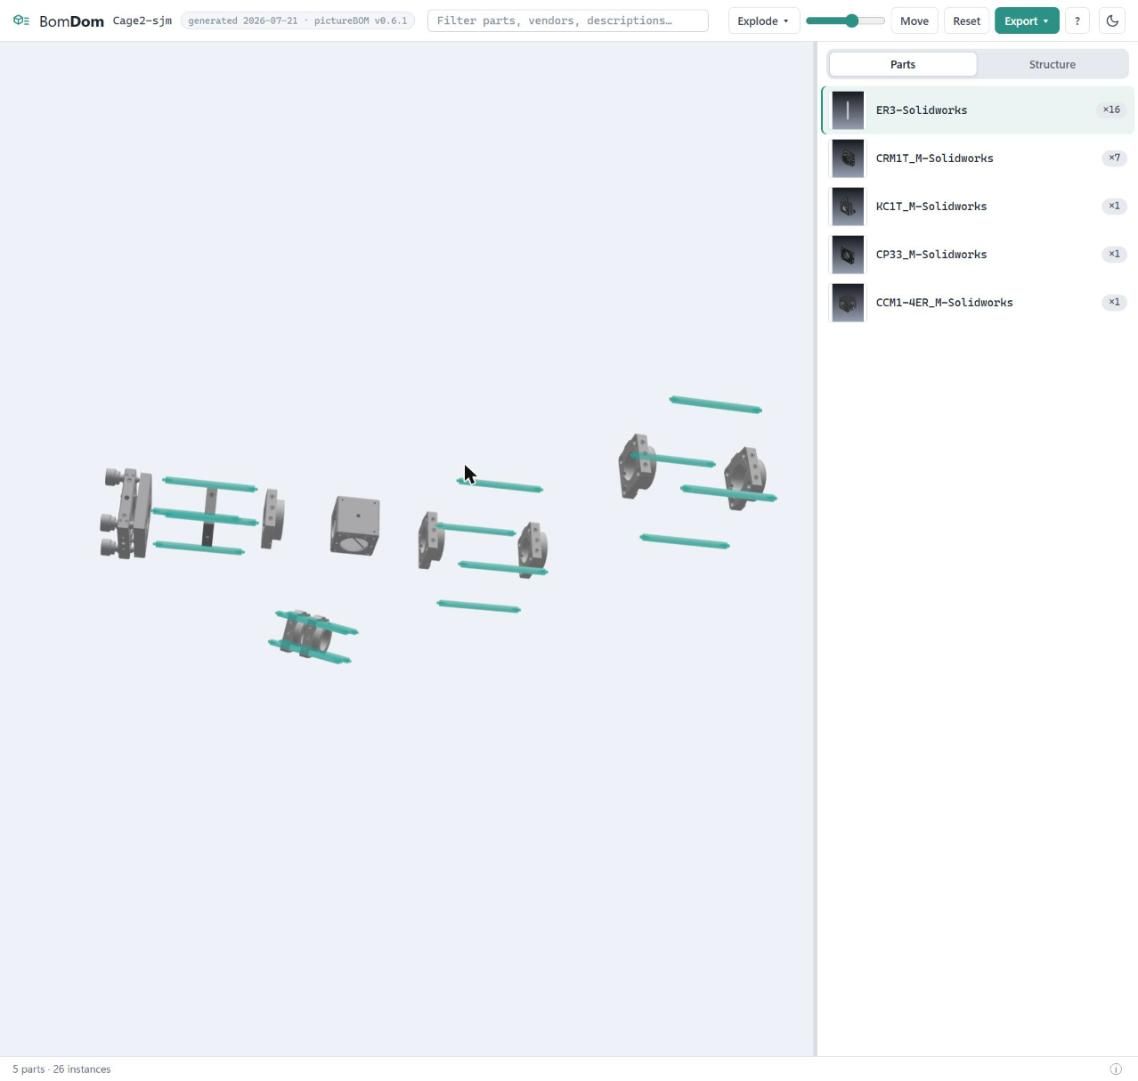
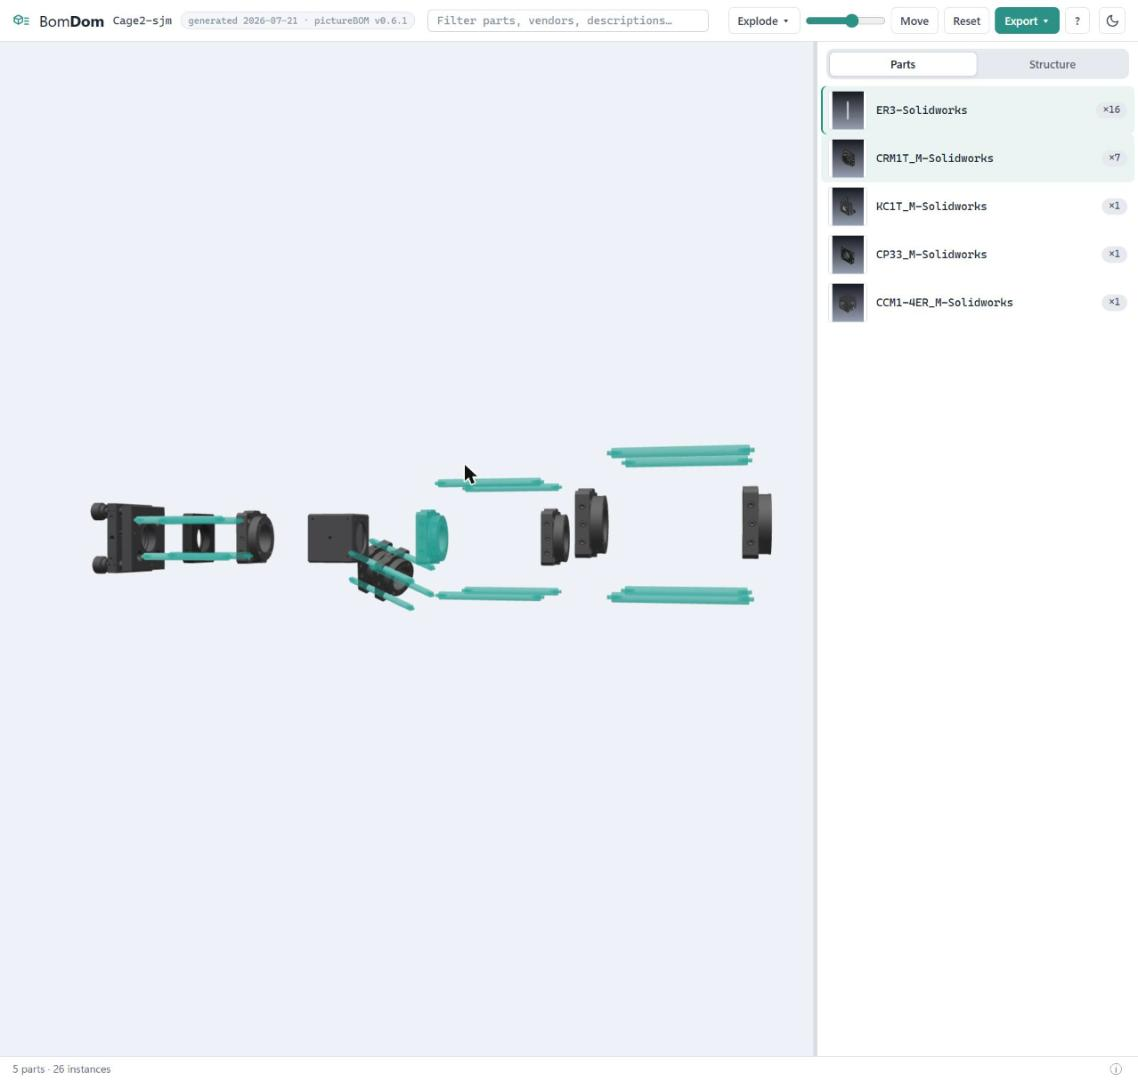
Convert recovered colors to linear space before writing baseColorFactor
Sampled pixels and SolidWorks color values are sRGB; glTF expects
linear. Unconverted values rendered several stops too bright — near-
black anodized parts came out medium gray. Showcase sample and README
still regenerated with the corrected colors.

Changed region(s): [[0.0615, 0.3663, 0.6766, 0.58], [0.246, 0.5495, 0.3076, 0.6105]]

diff --git a/src/picturebom/bomdom.py b/src/picturebom/bomdom.py
@@ -771,8 +771,15 @@ def inject_component_colors(glb_bytes, parts, component_colors, sample_fallback=
     if not component_colors:
         return glb_bytes, 0
 
+    def srgb_to_linear(c):
+        # Sampled pixels and SolidWorks color values are sRGB (display) space;
+        # glTF baseColorFactor is linear. Writing sRGB numbers unconverted
+        # renders everything several stops too bright (washed out).
+        c = min(max(c, 0.0), 1.0)
+        return c / 12.92 if c <= 0.04045 else ((c + 0.055) / 1.055) ** 2.4
+
     def material_for(vals):
-        r, gr, b = vals[0], vals[1], vals[2]
+        r, gr, b = (srgb_to_linear(v) for v in vals[:3])
         shininess = vals[6] if len(vals) > 6 else 0.3
         transparency = vals[7] if len(vals) > 7 else 0.0
         mat = {"pbrMetallicRoughness": {

diff --git a/scripts/smoke_bomdom.py b/scripts/smoke_bomdom.py
@@ -423,9 +423,13 @@ def test_color_injection():
     re = parse_glb(injected)
     validate_glb(re)
     check("recolored GLB validates", True)
+    def srgb_to_linear(c):
+        return c / 12.92 if c <= 0.04045 else ((c + 0.055) / 1.055) ** 2.4
+    expected = [round(srgb_to_linear(v), 5) for v in (0.1, 0.2, 0.8)]
     new_mat = re.gltf["materials"][-1]["pbrMetallicRoughness"]
-    check("COM color applied", new_mat["baseColorFactor"][:3] == [0.1, 0.2, 0.8],
-          f"got {new_mat['baseColorFactor']}")
+    check("COM color applied in linear space",
+          new_mat["baseColorFactor"][:3] == expected,
+          f"got {new_mat['baseColorFactor']} want {expected}")
     check("primitives remapped to the new material",
           all(p["material"] == len(re.gltf["materials"]) - 1
               for m in re.gltf["meshes"] for p in m["primitives"]))